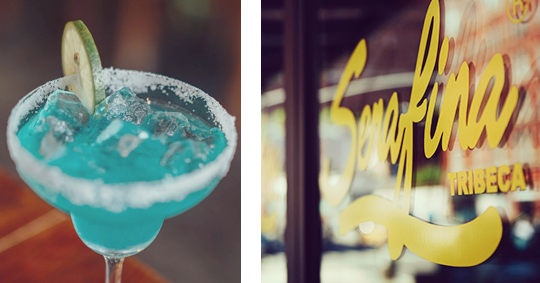
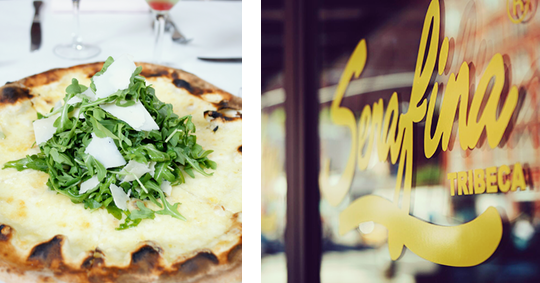
Fix offers heading, add dining photos, add robots.txt

diff --git a/_includes/exclusive-offers.html b/_includes/exclusive-offers.html
@@ -1,4 +1,14 @@
 {% assign offers = site.data._models.offers | sort: 'order' %}
+
+<section class="specials-top">
+  <div class="specials-container">
+    <div class="specials-container-inner">
+      <h1>Exclusive Offers</h1>
+      <p>Explore our special offers and save on accommodations when you book direct. </p>
+    </div>
+  </div>
+</section>
+
 <section class="exclusive-offers-sec">
 	<div class="offers-wrap">
   
